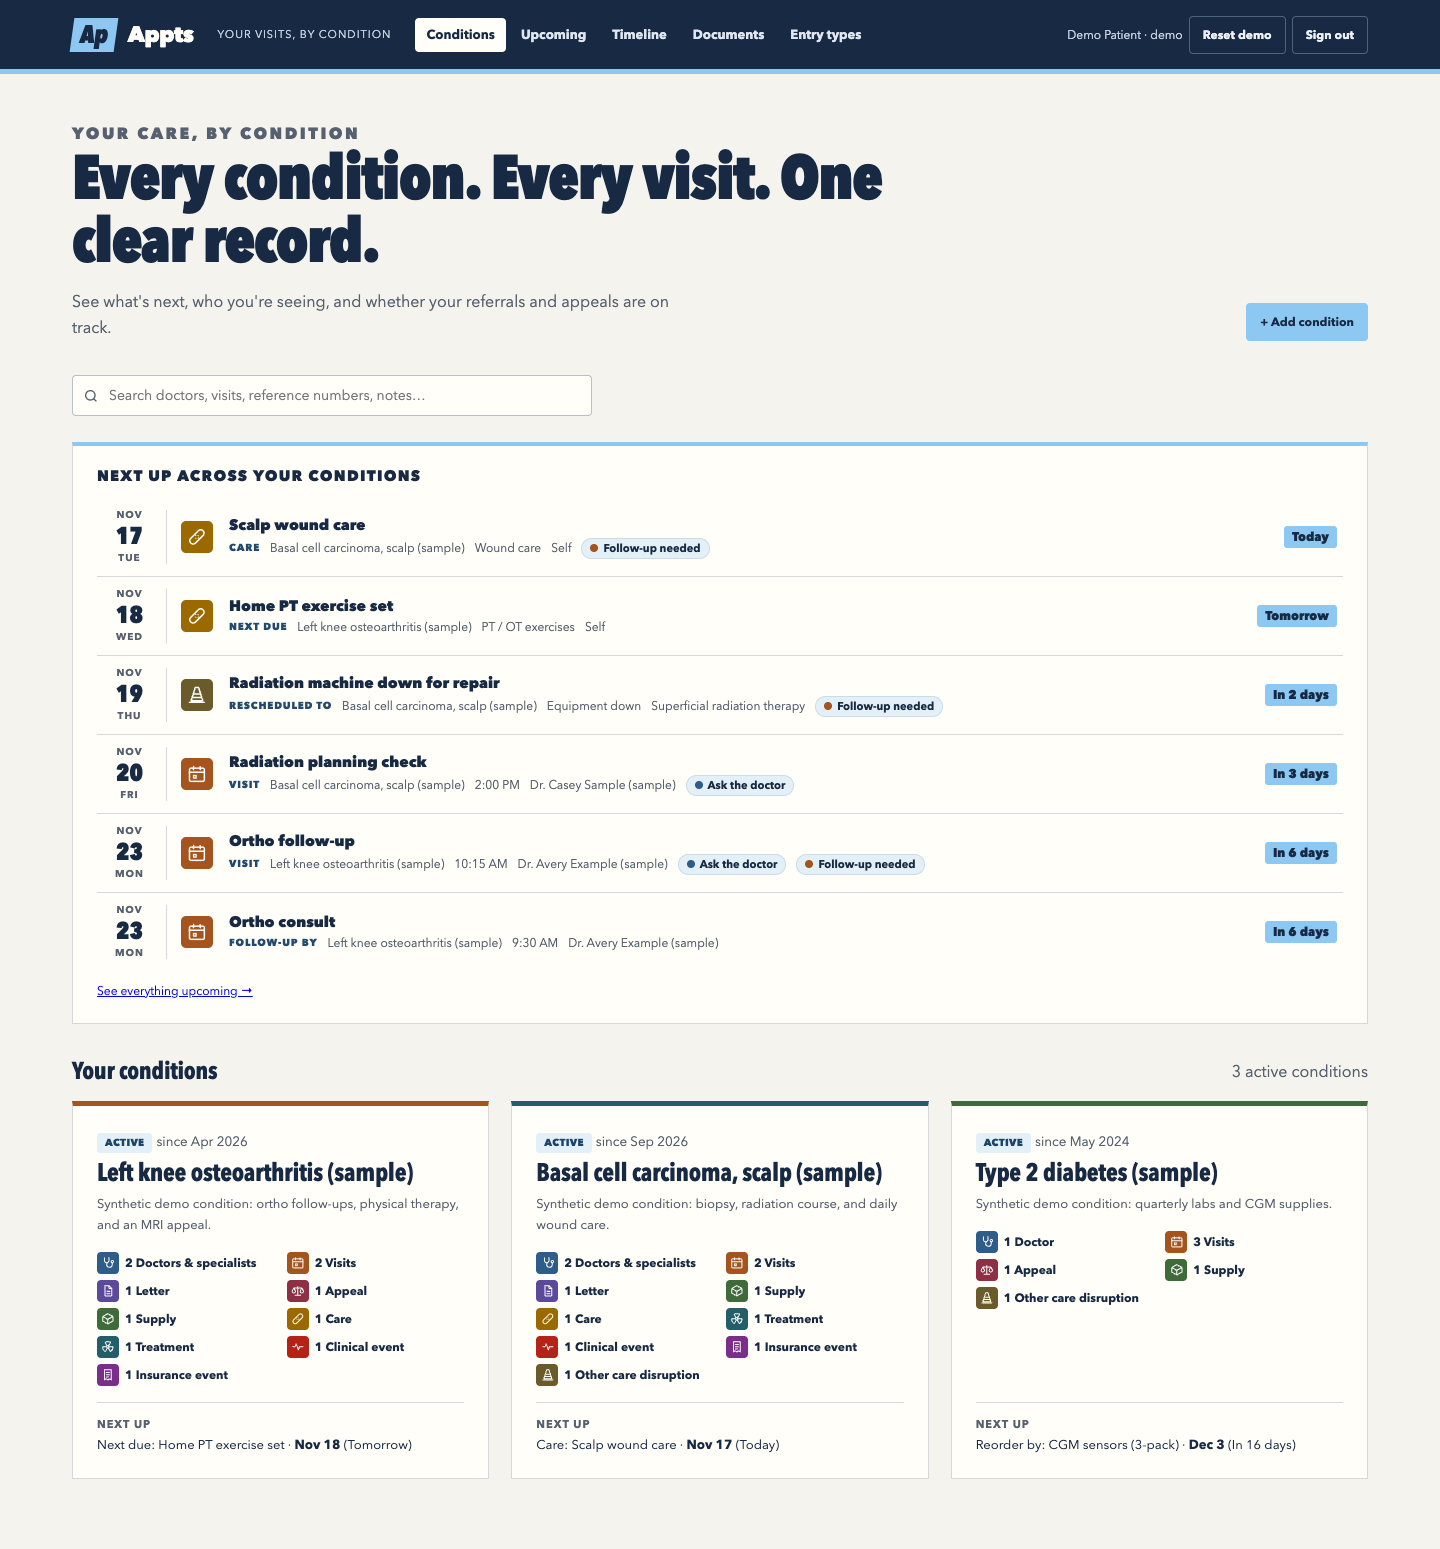
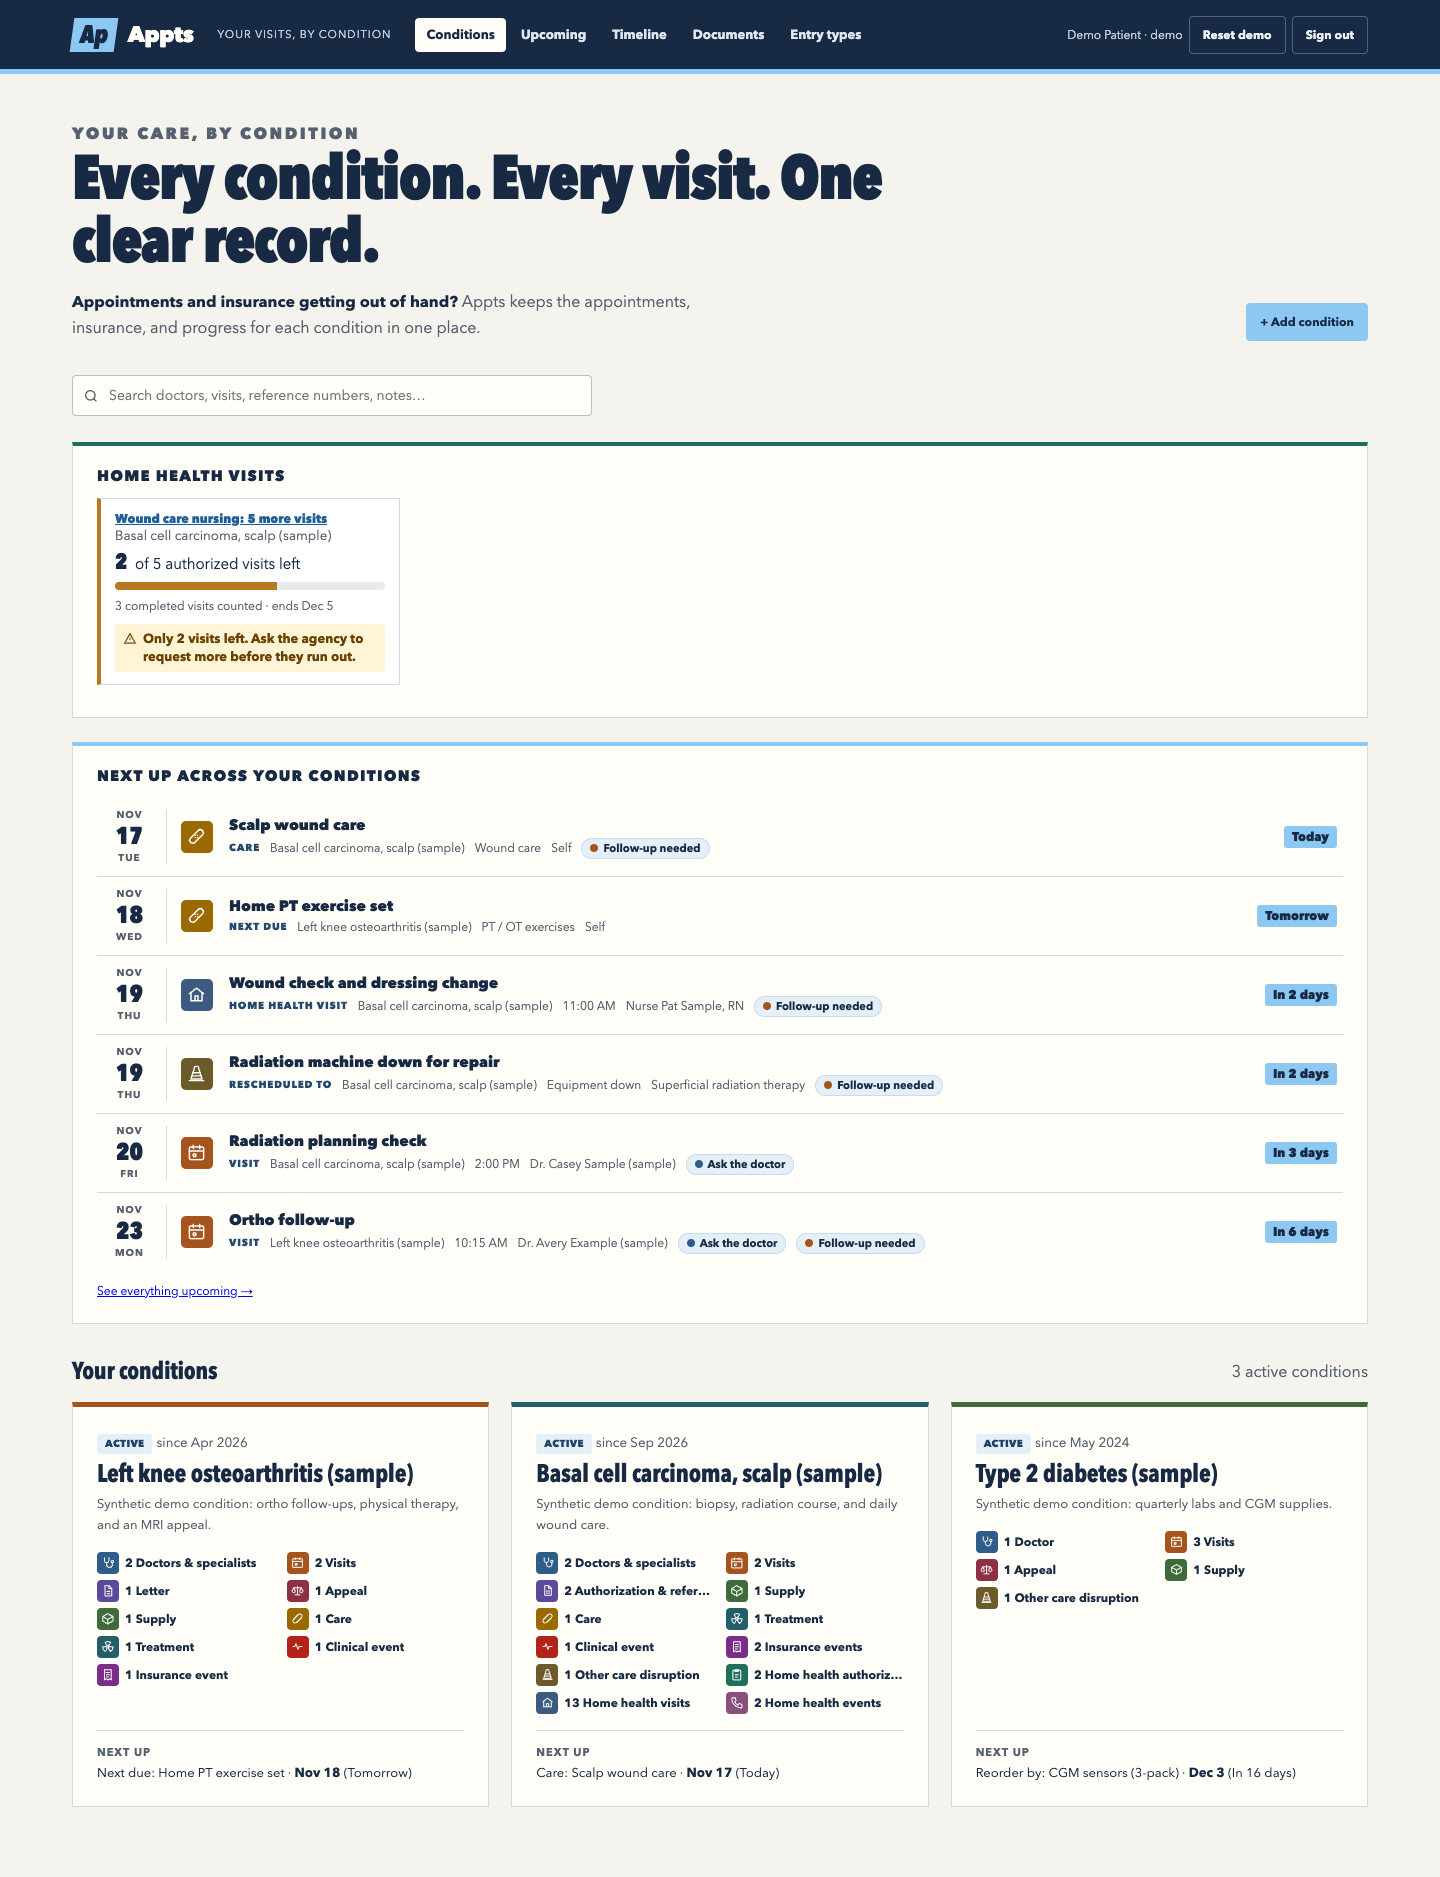
Live check resets the demo and checks the home health countdown through Apache

diff --git a/tests/live.check.py b/tests/live.check.py
@@ -19,6 +19,7 @@ class Remote:
 pw = demo_password()
 php = lambda code: subprocess.run([PHP, '-r', f'require "includes/demo-seed.php"; {code}'], cwd=ROOT, capture_output=True, check=True).stdout
 
+doc_version = int(subprocess.run([PHP, '-r', 'require "includes/domain.php"; echo DOC_VERSION;'], cwd=ROOT, capture_output=True, check=True).stdout)
 anon = Client(Remote())
 st, body, h = anon.raw('')
 ok(st == 200 and b'Appts' in body, f'index.php renders at {BASE}')
@@ -31,6 +32,9 @@ st, body, h = demo.raw('api.php?action=login', 'POST', json.dumps({'username': '
 cookie = h.get('Set-Cookie', '')
 ok(st == 200, 'demo signs in')
 ok(f'path={PATH}' in cookie and 'HttpOnly' in cookie and 'SameSite=Strict' in cookie, f'session cookie scoped to {PATH}, HttpOnly, SameSite=Strict')
+# Reset the demo (synthetic data only) so it carries the current sample story, home health included.
+st, data = demo.api('reset-demo', {})
+ok(st == 200 and data['doc']['version'] == doc_version and any(e['typeId'] == 'hh_auth' for e in data['doc']['entries']), 'demo reset to the current sample data (home health story included)')
 st, data = demo.api('data')
 ok(st == 200 and len(data['doc']['entries']) > 0 and len(data['doc']['conditions']) > 0, f"demo records load ({len(data['doc']['conditions'])} conditions, {len(data['doc']['entries'])} entries)")
 
@@ -59,7 +63,6 @@ import hashlib, re as _re
 wf_file = ROOT / 'storage' / 'data' / 'wf.json.php'
 wf_hash = hashlib.sha256(wf_file.read_bytes()).hexdigest() if wf_file.exists() else None
 wf_version = int(_re.search(rb'"version":\s*(\d+)', wf_file.read_bytes()).group(1)) if wf_file.exists() else None
-doc_version = int(subprocess.run([PHP, '-r', 'require "includes/domain.php"; echo DOC_VERSION;'], cwd=ROOT, capture_output=True, check=True).stdout)
 wf = Client(Remote())
 st, _ = wf.login('wf', pw)
 ok(st == 200, 'wf signs in (same password as demo)')
@@ -81,6 +84,7 @@ with sync_playwright() as p:
     errors = []; page.on('pageerror', lambda e: errors.append(str(e)))
     page.goto(BASE); page.click('#fill-demo'); page.click('#login-form [type=submit]'); page.wait_for_selector('.condition-card')
     ok(page.locator('.condition-card').count() > 0, 'browser signs in to demo through Apache')
+    ok('2 of 5 authorized visits left' in page.locator('.hh-overview').inner_text(), 'home health countdown renders through Apache')
     page.click('[data-action=add-condition] >> nth=0'); page.wait_for_selector('#condition-notes')
     page.evaluate("""([b64]) => { const t = document.querySelector('#condition-notes'); const dt = new DataTransfer(); const bin = atob(b64);
       dt.items.add(new File([Uint8Array.from(bin, c => c.charCodeAt(0))], 'clip.png', { type: 'image/png' })); t.focus();
